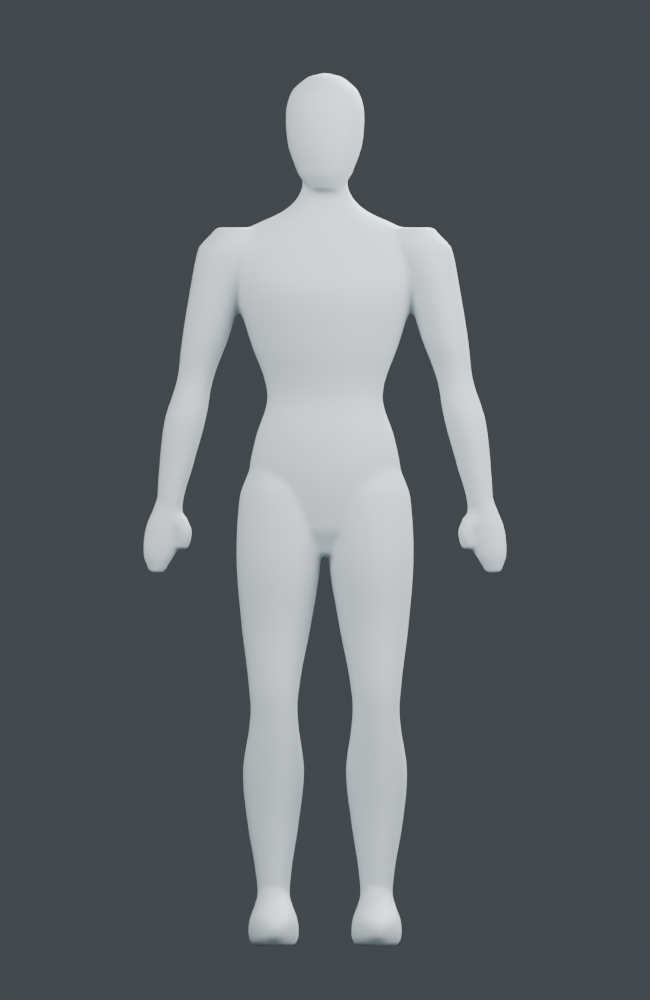
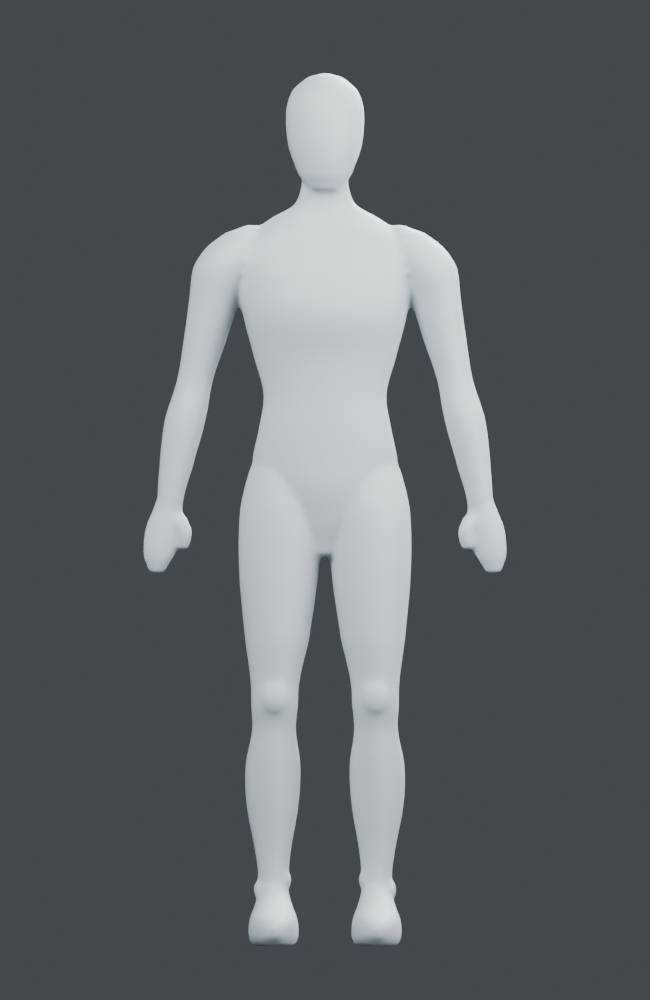
Refine human shoulders torso and joint landmarks [skip ci]

diff --git a/examples/human_base.py b/examples/human_base.py
@@ -1,4 +1,4 @@
-"""Procedural adult proportion study; neutral stance, no rig or fine anatomy.
+"""Procedural adult proportion study; neutral stance, no rig or fine anatomy.
 
 blender -b --factory-startup -t 2 --python examples/human_base.py -- runs/human-base
 """
@@ -52,12 +52,14 @@ def build(output):
         return ob
 
     stock('Source torso pelvis neck',[
-        [.79,0,.015,.055,.055],[.84,0,.015,.115,.08],
-        [.94,0,.02,.15,.105],[1.02,0,.005,.14,.09],
-        [1.11,0,0,.115,.075],[1.22,0,.004,.15,.10],
-        [1.32,0,0,.178,.105],[1.40,0,.005,.19,.085],
-        [1.44,0,.01,.16,.07],[1.48,0,.012,.08,.052],
-        [1.52,0,.008,.047,.045],[1.57,0,0,.048,.045]])
+        [.79,0,.018,.055,.055],[.85,0,.024,.114,.084],
+        [.92,0,.026,.142,.106],[.98,0,.014,.145,.099],
+        [1.04,0,-.003,.133,.085],[1.11,0,-.012,.123,.077],
+        [1.18,0,-.006,.141,.09],[1.27,0,-.008,.164,.109],
+        [1.35,0,-.003,.175,.10],[1.40,0,.005,.178,.081],
+        [1.435,0,.012,.149,.065],[1.465,0,.015,.106,.052],
+        [1.49,0,.012,.062,.044],[1.53,0,.006,.047,.043],
+        [1.57,0,0,.048,.045]])
     stock('Source head',[
         [1.52,0,-.02,.032,.035],[1.55,0,-.016,.053,.057],
         [1.61,0,-.003,.074,.082],[1.68,0,.003,.078,.085],
@@ -65,11 +67,13 @@ def build(output):
         [1.755,0,.006,.004,.005]])
     for sign,side in ((-1,'Left'),(1,'Right')):
         stock(side+' source leg',[
-            [.075,sign*.103,.018,.033,.04],[.14,sign*.103,.015,.034,.04],
-            [.26,sign*.104,.026,.052,.059],[.36,sign*.103,.018,.061,.065],
-            [.46,sign*.102,-.012,.048,.05],[.52,sign*.102,-.017,.05,.052],
-            [.64,sign*.098,.005,.068,.075],[.78,sign*.092,.008,.085,.092],
-            [.91,sign*.087,.014,.083,.09],[.98,sign*.085,.015,.06,.065]])
+            [.075,sign*.103,.018,.031,.039],[.13,sign*.103,.018,.03,.034],
+            [.19,sign*.104,.021,.035,.039],[.29,sign*.105,.027,.052,.059],
+            [.37,sign*.104,.018,.055,.06],[.44,sign*.102,-.002,.044,.048],
+            [.49,sign*.101,-.016,.047,.049],[.535,sign*.10,-.014,.049,.05],
+            [.62,sign*.096,0,.064,.074],[.76,sign*.092,.012,.08,.091],
+            [.88,sign*.087,.02,.083,.096],[.96,sign*.083,.02,.068,.078],
+            [1.00,sign*.082,.018,.042,.047]])
         stock(side+' source foot',[
             [.008,sign*.103,-.055,.043,.112],[.027,sign*.103,-.055,.05,.13],
             [.06,sign*.103,-.047,.048,.125],[.095,sign*.103,0,.036,.067],
@@ -77,8 +81,9 @@ def build(output):
         stock(side+' source arm',[
             [.895,sign*.31,0,.026,.028],[.96,sign*.299,.003,.033,.035],
             [1.06,sign*.28,.006,.041,.044],[1.14,sign*.26,.012,.036,.038],
-            [1.22,sign*.24,.01,.046,.05],[1.32,sign*.216,.006,.054,.058],
-            [1.405,sign*.19,.004,.063,.062],[1.445,sign*.178,.005,.04,.045]])
+            [1.22,sign*.24,.013,.043,.047],[1.30,sign*.222,.008,.05,.054],
+            [1.365,sign*.205,.005,.059,.063],[1.405,sign*.186,.006,.052,.054],
+            [1.434,sign*.165,.01,.035,.036],[1.45,sign*.147,.012,.012,.016]])
         stock(side+' source hand',[
             [.755,sign*.337,-.005,.016,.015],[.79,sign*.332,-.006,.032,.022],
             [.845,sign*.322,-.004,.037,.025],[.885,sign*.314,0,.029,.026],
@@ -87,10 +92,30 @@ def build(output):
             [.802,sign*.284,-.015,.012,.013],[.837,sign*.281,-.016,.016,.018],
             [.866,sign*.296,-.008,.02,.019]])
 
+    def landmark(name,center,radii):
+        bpy.ops.mesh.primitive_uv_sphere_add(segments=32,ring_count=16,location=center)
+        ob=bpy.context.object;ob.name=name;ob.scale=radii
+        ob.data.materials.append(clay);sources.append(ob)
+
+    for sign,side in ((-1,'Left'),(1,'Right')):
+        landmark(side+' kneecap',(sign*.101,-.057,.505),(.029,.016,.034))
+        landmark(side+' outer ankle',(sign*.132,.012,.121),(.012,.019,.018))
+        landmark(side+' inner ankle',(sign*.077,.009,.14),(.011,.017,.017))
+
     body=models.combine(sources,'Human base surface',voxel=.006)
     for source in sources:source.hide_render=True;source.hide_set(True)
     body.data.materials.clear();body.data.materials.append(clay)
     for face in body.data.polygons:face.material_index=0;face.use_smooth=True
+    body.shape_key_add(name='Basis')
+    landmarks=body.shape_key_add(name='Clavicle and shin landmarks')
+    for vertex in landmarks.data:
+        x,y,z=vertex.co
+        # Broad, shallow relief follows front-facing skin, not detached rods.
+        front=max(0,min(1,(-y-.012)/.025))
+        clavicle=.005*math.exp(-((abs(x)-.09)/.065)**4-((z-(1.449-.14*abs(x)))/.015)**2)
+        shin=.0035*math.exp(-((abs(x)-.103)/.018)**2-((z-.33)/.12)**4)
+        vertex.co.y-=front*(clavicle+shin)
+    landmarks.value=1
     smooth=body.modifiers.new('Reversible surface smoothing','SMOOTH')
     smooth.factor=.65;smooth.iterations=5
     # Inspect generated geometry, not just successful operator return codes.
@@ -120,10 +145,18 @@ def build(output):
     tree=BVHTree.FromPolygons(coords,[list(f.vertices) for f in mesh.polygons])
     leg_gap=tree.ray_cast(Vector((0,-.4,.65)),Vector((0,1,0)),.8)[0] is None
     if not leg_gap:raise ValueError('Legs fused across intended gap')
+    arm_gaps=all(tree.ray_cast(Vector((sign*.197,-.4,1.19)),Vector((0,1,0)),.8)[0] is None
+                 for sign in (-1,1))
+    knees=[]
+    for sign in (-1,1):
+        hit=tree.ray_cast(Vector((sign*.101,-.4,.505)),Vector((0,1,0)),.8)[0]
+        knees.append(hit is not None and hit.y<-.066)
+    if not arm_gaps or not all(knees):raise ValueError('Armpit clearance or kneecap relief lost')
     report={'blender':bpy.app.version_string,'height_m':height,'source_parts':len(sources),
             'vertices':len(coords),'connected_components':components,'closed_edges':closed,
-            'leg_gap_open':leg_gap,'voxel_m':.006,'threads':2,
-            'scope':'Adult neutral proportion blockout; no detailed face, fingers, anatomy or rig.'}
+            'leg_gap_open':leg_gap,'arm_gaps_open':arm_gaps,'kneecap_relief_present':all(knees),
+            'reversible_landmarks':True,'voxel_m':.006,'threads':2,
+            'scope':'Adult silhouette and joint-landmark study; no detailed face, fingers or rig.'}
     ev.to_mesh_clear()
     output.mkdir(parents=True)
     (output/'verification.json').write_text(json.dumps(report,indent=2))

diff --git a/docs/STATUS.md b/docs/STATUS.md
@@ -2,6 +2,23 @@
 
 ## Human proportion base — 2026-10-23
 
+Silhouette and joint-landmark revision: rounded shoulder stations replace the
+flat arm caps. Torso profiles distinguish ribcage, lumbar curve and pelvis;
+thigh/calf profiles taper into narrower ankles. Separate kneecap and staggered
+ankle masses fuse into the surface. Clavicle and shin relief is a reversible shape
+key, followed by the existing smoothing modifier. Native result:
+`runs/human-landmarks/human-base.blend`; the initial native model is preserved.
+
+Focused checks retain connected/closed geometry, height and the leg gap, and add
+upper-arm gap rays and kneecap projection checks. This remains a static anatomy
+blockout; facial features, fingers and a deformation rig are outside this pass.
+Blender 5.2.2 LTS passed the checks: one closed connected surface with 65,256
+vertices and preserved 1.7455 m height. Front/side images were visually inspected;
+the square shoulder caps are removed, and knee/ankle landmarks and torso curves
+are visible. Joint masses remain simplified and do not establish anatomical
+accuracy. One process, two CPU threads and two renders were used. Blender exited.
+Initial revision details follow.
+
 `examples/human_base.py` starts the human-modeling stage with an original adult
 neutral-stance blockout. Separate section sources define the head, torso/pelvis,
 arms, legs, mitten hands, thumb masses and feet. A 6 mm voxel fusion creates a

diff --git a/README.md b/README.md
@@ -12,7 +12,8 @@ Actual Blender renders created with this toolkit.
 
 Latest: an adult human proportion blockout in a neutral stance, with preserved
 section sources and a separate fused surface. This is an initial silhouette and
-proportion study, without detailed anatomy, individual fingers or a rig.
+proportion study, without detailed anatomy, individual fingers or a rig. The
+current pass refines shoulders, torso curves, kneecaps and ankle landmarks.
 [Generator](examples/human_base.py) · [Scope and checks](docs/STATUS.md)
 
 | Human base front | Human base side |
